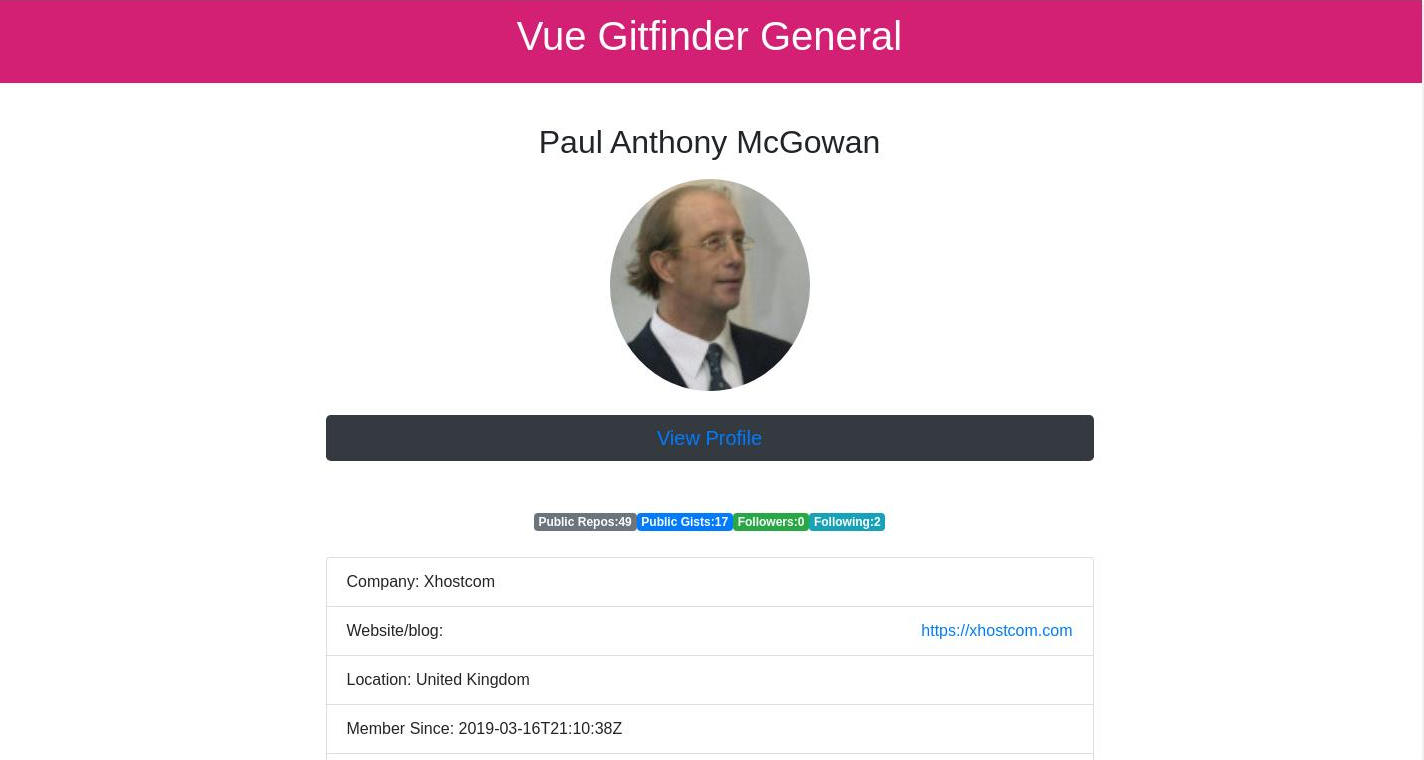
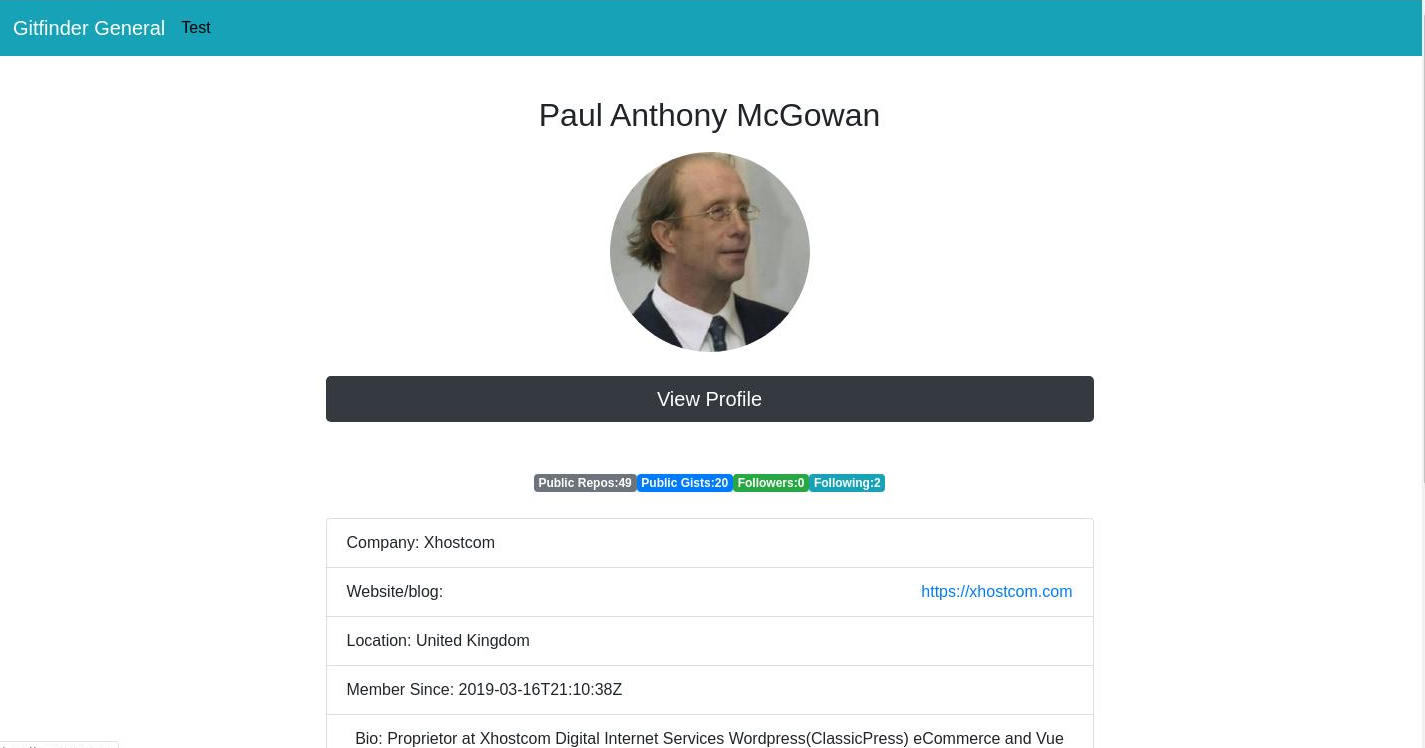
Update

diff --git a/src/App.vue b/src/App.vue
@@ -2,7 +2,10 @@
   <div id="app">
     <div>
     <b-navbar toggleable="lg" type="dark" variant="info">
-    <b-navbar-brand tag="h1" class="mb-0" href="/">Gitfinder</b-navbar-brand>
+    <b-navbar-brand tag="h1" class="mb-0" href="/">Gitfinder General</b-navbar-brand>
+    <div class="pull-right">
+    <button type="submit"><i class="icon-refresh"></i> Test</button>
+    </div>
    </b-navbar>
     </div>
     <div class="container">
@@ -12,7 +15,7 @@
           <img class="user-img" :src="details.avatar_url" width="200px;" />
          <br />
          <br />
-         <btn class="btn-dark btn-lg btn-block"><a href="#">View Profile</a></btn>
+         <btn class="btn-dark btn-lg btn-block"><a href="#" style="color: #fff; text-decoration:none;">View Profile</a></btn>
           <br /><br />
               <div class="column-md-12">
               <span class="badge badge-secondary"><strong>Public Repos:</strong>{{ details.public_repos }}</span>
